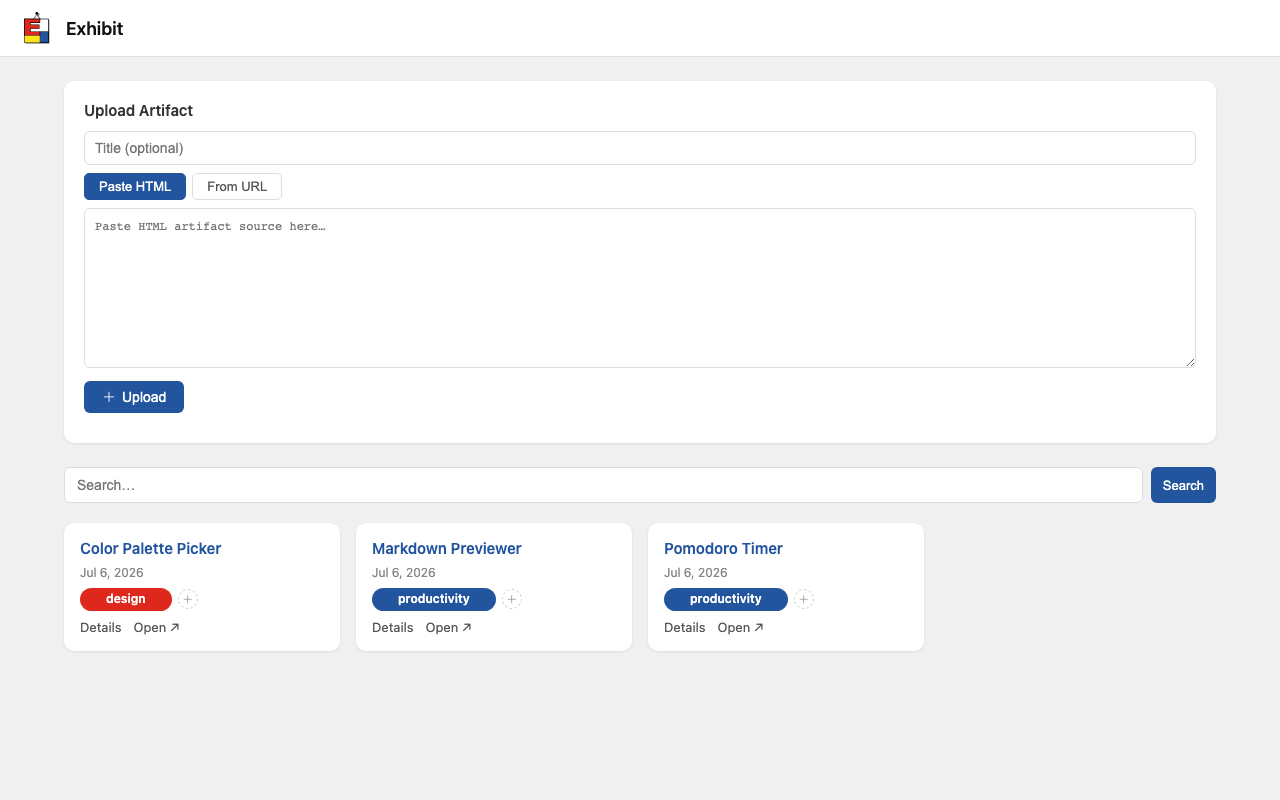
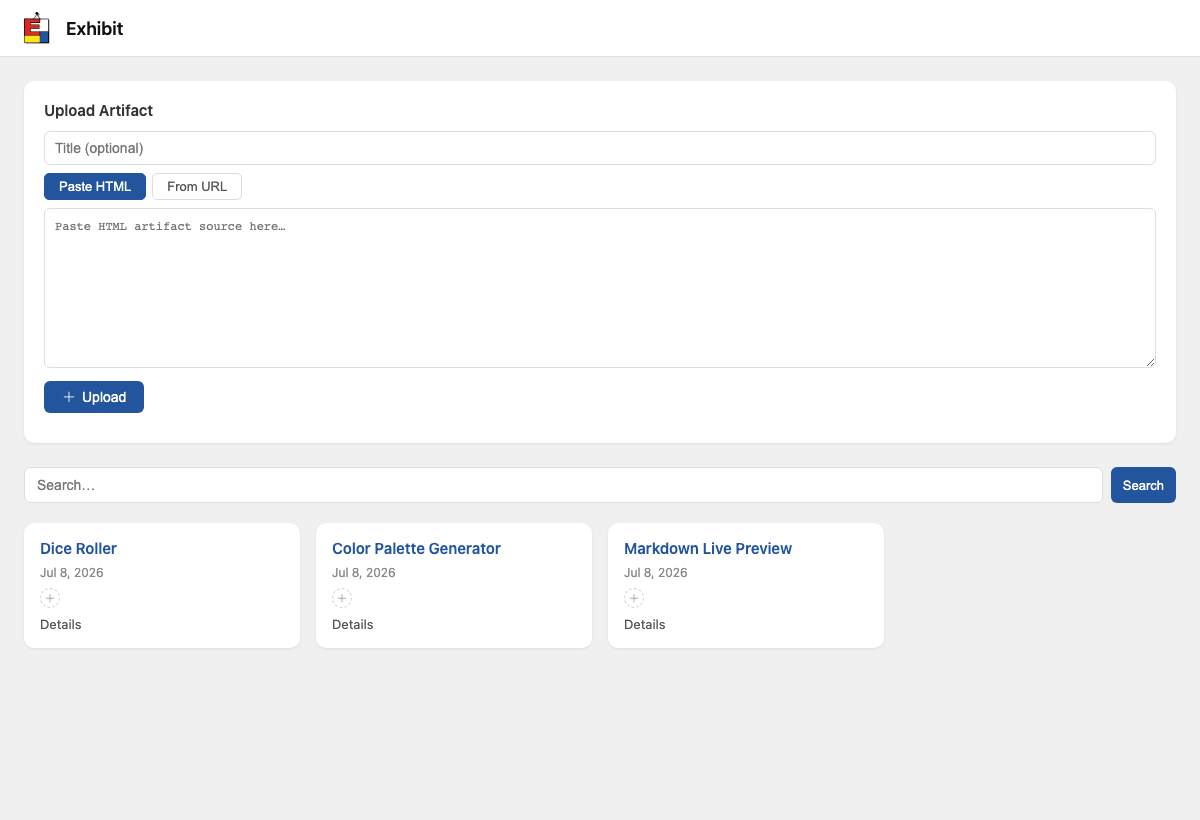
Remove Open action from artifact cards (av-lc93)
The artifact card had both 'Details' and 'Open ↗' links; 'Open' opened the
raw render origin in a new tab, duplicating the way into an artifact. Remove
it so each card has one open affordance: the whole card navigates to the
artifact's detail/viewer page, and the explicit 'Details' link does the same.

- Drop the 'Open ↗' card action and the now-unused renderOrigin param of
  renderGalleryPage (the gallery no longer references the render origin).
- Add data-href to each .card and a delegated click handler that opens the
  detail/viewer page from any non-interactive part of the card, leaving
  clicks on the title/Details links and the tag row (pills, +/edit/detach)
  to their own behavior.
- Give the card a pointer cursor + hover lift to signal it's clickable.
- Regression test asserting the Open action and any new-tab opener are gone
  and that the card carries the open target.
- Refresh the gallery screenshot.

diff --git a/internal/api/gallery_test.go b/internal/api/gallery_test.go
@@ -115,6 +115,34 @@ func TestGalleryIndexRendersAddTagModal(t *testing.T) {
 	assert.Contains(t, page, `function openAddTagModal(`)
 }
 
+// The artifact card used to expose both a 'Details' link and an 'Open ↗' link
+// (the latter opening the raw render origin in a new tab). The 'Open' action was
+// removed so there is exactly one way into an artifact from a card: the card
+// itself opens the detail/viewer page, and the 'Details' link does the same
+// explicitly. There must be no open-in-new-tab affordance and the card must
+// carry a click target so any non-interactive part of it navigates.
+func TestGalleryCardHasOnlyDetailsOpenAffordance(t *testing.T) {
+	r := newTestRouter(t)
+	id := createTestArtifact(t, r, "Openless")
+
+	req := httptest.NewRequest("GET", "/", nil)
+	w := httptest.NewRecorder()
+	r.ServeHTTP(w, req)
+	require.Equal(t, http.StatusOK, w.Code)
+	page := w.Body.String()
+
+	// The card opens the artifact's detail/viewer page from anywhere that
+	// isn't an interactive child; the data-href is what the click handler uses.
+	assert.Contains(t, page, `<div class="card" data-href="/artifacts/`+id+`">`)
+
+	// 'Details' remains the single named action and points at the detail page.
+	assert.Contains(t, page, `<a href="/artifacts/`+id+`">Details</a>`)
+
+	// The removed 'Open ↗' action and any new-tab opener are gone from cards.
+	assert.NotContains(t, page, "Open ↗")
+	assert.NotContains(t, page, `target="_blank"`)
+}
+
 // The detail-view iframe is sandboxed with an opaque origin, so clipboard
 // copy/paste — a common artifact interaction — is denied by Permissions Policy
 // unless the embedder delegates it via the allow= attribute. Delegating

diff --git a/internal/api/gallery.go b/internal/api/gallery.go
@@ -26,7 +26,7 @@ func (ro *Router) galleryIndex(w http.ResponseWriter, r *http.Request) {
 	cols, _ := ro.cfg.Store.ListCollections(r.Context(), 1)
 
 	w.Header().Set("Content-Type", "text/html; charset=utf-8")
-	fmt.Fprint(w, renderGalleryPage(arts, tags, cols, q, ro.cfg.RenderOrigin, ro.cfg.AuthToken))
+	fmt.Fprint(w, renderGalleryPage(arts, tags, cols, q, ro.cfg.AuthToken))
 }
 
 func (ro *Router) galleryDetail(w http.ResponseWriter, r *http.Request) {
@@ -75,22 +75,24 @@ func (ro *Router) galleryEdit(w http.ResponseWriter, r *http.Request) {
 	fmt.Fprint(w, renderEditPage(a, string(src), ro.cfg.AuthToken))
 }
 
-func renderGalleryPage(arts []*store.Artifact, tags []*store.Tag, cols []*store.Collection, query, renderOrigin, token string) string {
+func renderGalleryPage(arts []*store.Artifact, tags []*store.Tag, cols []*store.Collection, query, token string) string {
 	var cards strings.Builder
 	if len(arts) == 0 {
 		cards.WriteString(`<p class="empty">No artifacts yet. Upload one above.</p>`)
 	}
+	// The whole card opens the artifact's detail/viewer page; the explicit
+	// 'Details' action does the same. The separate 'Open' card action was
+	// removed so there is exactly one way to open an artifact from a card.
 	for _, a := range arts {
 		cards.WriteString(fmt.Sprintf(`
-<div class="card">
+<div class="card" data-href="/artifacts/%s">
   <a class="card-title" href="/artifacts/%s">%s</a>
   <div class="card-meta">%s</div>
   %s
   <div class="card-actions">
     <a href="/artifacts/%s">Details</a>
-    <a href="%s/a/%s" target="_blank">Open ↗</a>
   </div>
-</div>`, a.ID, htmlEsc(a.Title), a.CreatedAt.Format("Jan 2, 2006"), renderTagRow(a.ID, a.Tags), a.ID, renderOrigin, a.ID))
+</div>`, a.ID, a.ID, htmlEsc(a.Title), a.CreatedAt.Format("Jan 2, 2006"), renderTagRow(a.ID, a.Tags), a.ID))
 	}
 
 	searchVal := htmlEsc(query)
@@ -126,7 +128,8 @@ main{padding:24px;max-width:1200px;margin:0 auto}
 .search-row input{flex:1;padding:9px 12px;border:1px solid #ddd;border-radius:6px;font-size:14px;outline:none}
 .search-row input:focus{border-color:var(--brand-blue)}
 .grid{display:grid;grid-template-columns:repeat(auto-fill,minmax(260px,1fr));gap:16px}
-.card{background:#fff;border-radius:10px;padding:16px;box-shadow:0 1px 3px rgba(0,0,0,.08);display:flex;flex-direction:column;gap:8px}
+.card{background:#fff;border-radius:10px;padding:16px;box-shadow:0 1px 3px rgba(0,0,0,.08);display:flex;flex-direction:column;gap:8px;cursor:pointer;transition:box-shadow .12s ease}
+.card:hover{box-shadow:0 2px 8px rgba(0,0,0,.12)}
 .card-title{font-size:15px;font-weight:600;color:var(--brand-blue);text-decoration:none;word-break:break-word}
 .card-title:hover{text-decoration:underline}
 .card-meta{font-size:12px;color:#888}
@@ -323,6 +326,18 @@ document.addEventListener('click', function(e) {
     e.preventDefault();
     openAddTagModal(addBtn.dataset.artifactId);
   }
+});
+
+// Clicking anywhere on a card opens that artifact's detail/viewer page — the
+// card itself is the way in. Clicks that land on an interactive child (the
+// title or Details link, or anything in the tag row — pills, edit/detach,
+// the '+' button) are left alone so those keep their own behavior. The 'Open'
+// card action was removed; this is the single open affordance per card.
+document.addEventListener('click', function(e) {
+  if (e.target.closest('a, button, .tag-row, .card-actions')) return;
+  const card = e.target.closest('.card');
+  if (!card || !card.dataset.href) return;
+  window.location.href = card.dataset.href;
 });
 
 async function detachTag(btn) {